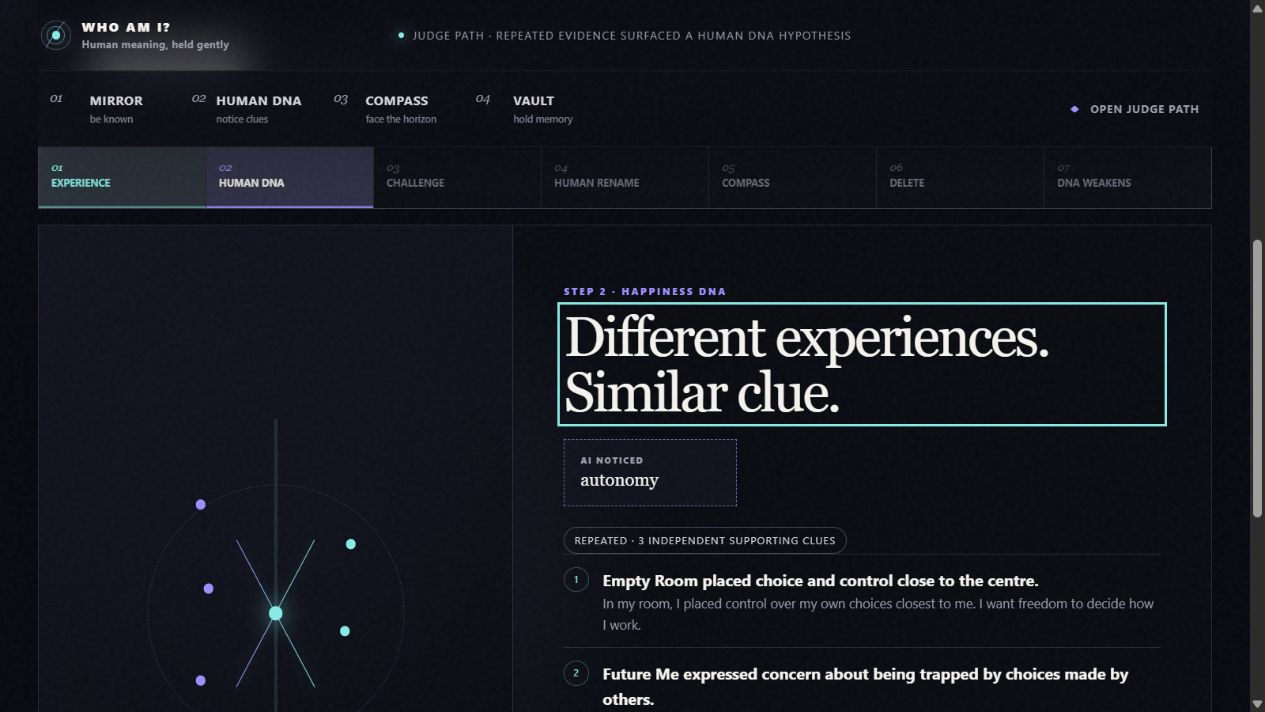
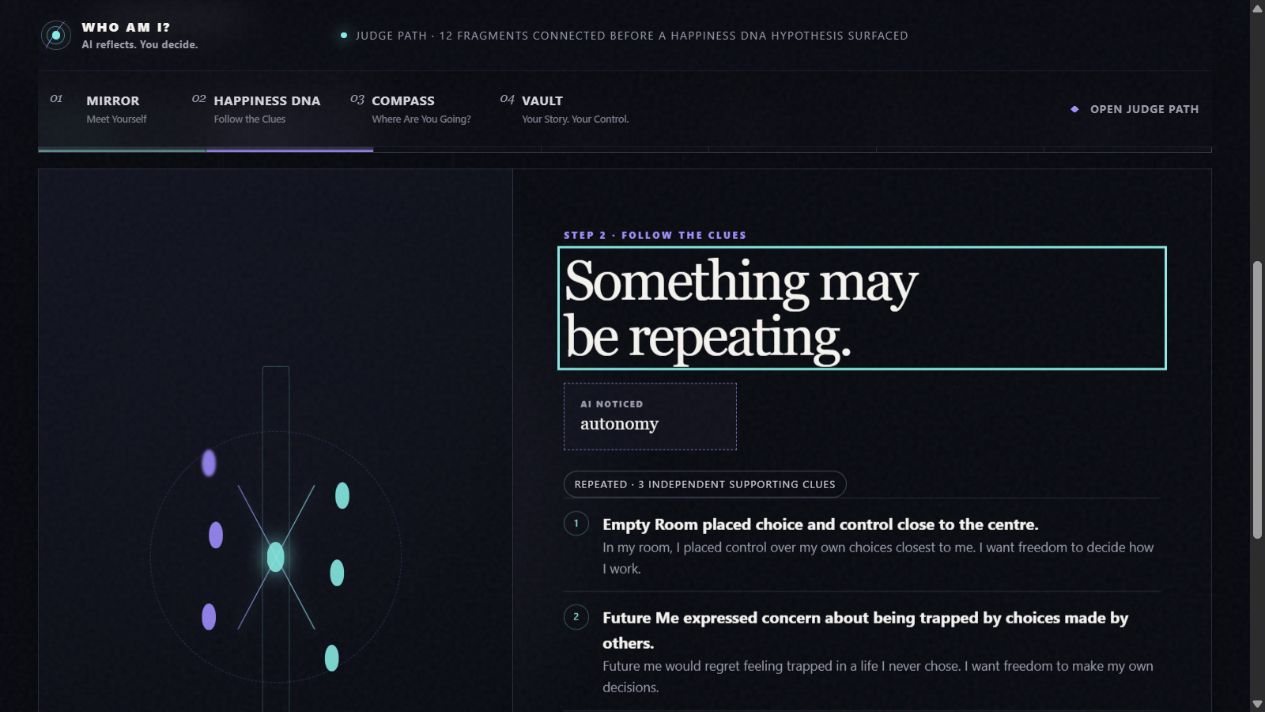
Refresh final product proof and screenshots

diff --git a/frontend/demo.js b/frontend/demo.js
@@ -54,7 +54,7 @@ async function startJudgeDemo(){
   chapterId=judgeDemo.chapter.id;
   compassStrandId=null;
   demoEl('demoMaya').textContent=judgeDemo.user.display_name;
-  demoEl('demoExperiences').innerHTML=judgeDemo.experiences.map((item,index)=>`<div class="demo-exp clue-fragment"><span>+ CLUE ${index+1} · ${escapeHtml(item.type.replaceAll('_',' '))}</span><b>${escapeHtml(item.label)}</b><small>accepted · one Happiness DNA fragment added</small></div>`).join('');
+  demoEl('demoExperiences').innerHTML=judgeDemo.experiences.map((item,index)=>`<div class="demo-exp clue-fragment"><span>+ CLUE ${index+1} · ${escapeHtml(item.type.replaceAll('_',' '))}</span><b>${escapeHtml(item.label)}</b><small>accepted · helix grows to ${Math.min(12,(index+1)*4)} visible fragments</small></div>`).join('');
   demoEl('demoEntertainment').innerHTML=`Mirror also remembers <b>${escapeHtml(judgeDemo.entertainment.label)}</b> — <code>purpose=${escapeHtml(judgeDemo.entertainment.purpose)}</code>, <code>dna_allowed=${judgeDemo.entertainment.dna_allowed}</code>. It is not part of this inference.`;
   demoEl('demoStartState').classList.remove('hidden');
   setJudgeStep(0,{focus:false});
@@ -75,7 +75,7 @@ async function demoRevealDNA(){
     demoEl('demoDnaState').textContent=`${pattern.status.toUpperCase()} · ${pattern.support} independent supporting clues`;
     demoEl('demoWhyEvidence').innerHTML=why.supporting.map((item,index)=>`<div class="demo-evidence"><span>${index+1}</span><div><b>${escapeHtml(item.summary)}</b><small>${escapeHtml(item.original||'')}</small></div></div>`).join('');
     setJudgeStep(1);
-    say('Judge path · three fragments connected before a Happiness DNA hypothesis surfaced');
+    say('Judge path · 12 fragments connected before a Happiness DNA hypothesis surfaced');
   });
   setJudgeActionAvailability(judgeStep);
 }

diff --git a/frontend/index.html b/frontend/index.html
@@ -182,7 +182,7 @@
             <p class="scene-number">02 · HAPPINESS DNA · FOLLOW THE CLUES</p>
             <h2 id="dnaTitle">Follow the Clues</h2>
           </div>
-          <p><strong>Happiness rarely announces itself. It leaves traces.</strong> Each accepted reflection forms a visible fragment before the room is allowed to suggest a pattern.</p>
+          <p><strong>Happiness rarely announces itself. It leaves traces.</strong> Each accepted reflection grows the helix by four visible fragments before the room is allowed to suggest a pattern.</p>
         </header>
 
         <div id="dnaRoomVisual" class="dna-room" role="group" aria-label="An empty virtual room with a faint, incomplete helix">
@@ -354,7 +354,7 @@
           <article class="demo-card visible" aria-labelledby="demoStep1">
             <span class="demo-step-kicker">STEP 1 · EXPERIENCE</span>
             <h3 id="demoStep1">Meet <span id="demoMaya">Maya</span>.</h3>
-            <p>Three separate, consented experiences each add a visible fragment before any pattern appears. Entertainment remains outside the inference.</p>
+            <p>Three separate, consented experiences grow the same helix from 4 to 8 to 12 visible fragments before any pattern appears. Entertainment remains outside the inference.</p>
             <div id="demoExperiences" class="demo-experiences"><div class="demo-exp"><span>START</span><b>Seed the demo first</b></div></div>
             <div id="demoEntertainment" class="tiny"></div>
             <button id="demoRevealBtn" type="button">Connect the Happiness DNA fragments <span aria-hidden="true">→</span></button>

diff --git a/backend/tests/test_catchy_copy_and_dna_fragments.py b/backend/tests/test_catchy_copy_and_dna_fragments.py
@@ -64,9 +64,11 @@ def test_frontend_grows_fragments_before_rendering_thresholded_patterns():
     assert "fragment-new" in APP and "dnaFragmentArrive" in STYLES
     for fragment_total in (4, 8, 12):
         assert f"{fragment_total} FRAGMENTS" in APP
+    assert "to ${Math.min(12,(index+1)*4)} visible fragments" in DEMO
     assert "dataset.clueCount=String(nextCount)" in APP
     assert "dataset.visibleFragments=String(visibleSegments)" in APP
     assert "4 fragments after clue 1, 8 after clue 2, and 12 after clue 3" in README
+    assert "from 4 to 8 to 12 visible fragments" in INDEX
 
     refresh = APP.split("async function refreshDNA", 1)[1].split("async function openReveal", 1)[0]
     assert refresh.index("syncDnaFragments") < refresh.index("const surfaced")

diff --git a/README.md b/README.md
@@ -22,7 +22,7 @@ WHO AM I? is not a personality test, happiness score, diagnosis, or decision eng
 
 ## The experience, not a dashboard
 
-The images below are captures from the deployed redesigned application and its judge path—not concept art or fabricated mockups.
+The images below are captures from this final repository build and its judge path—not concept art or fabricated mockups.
 
 ![WHO AM I? cinematic portal](docs/screenshots/portal.png)
 
